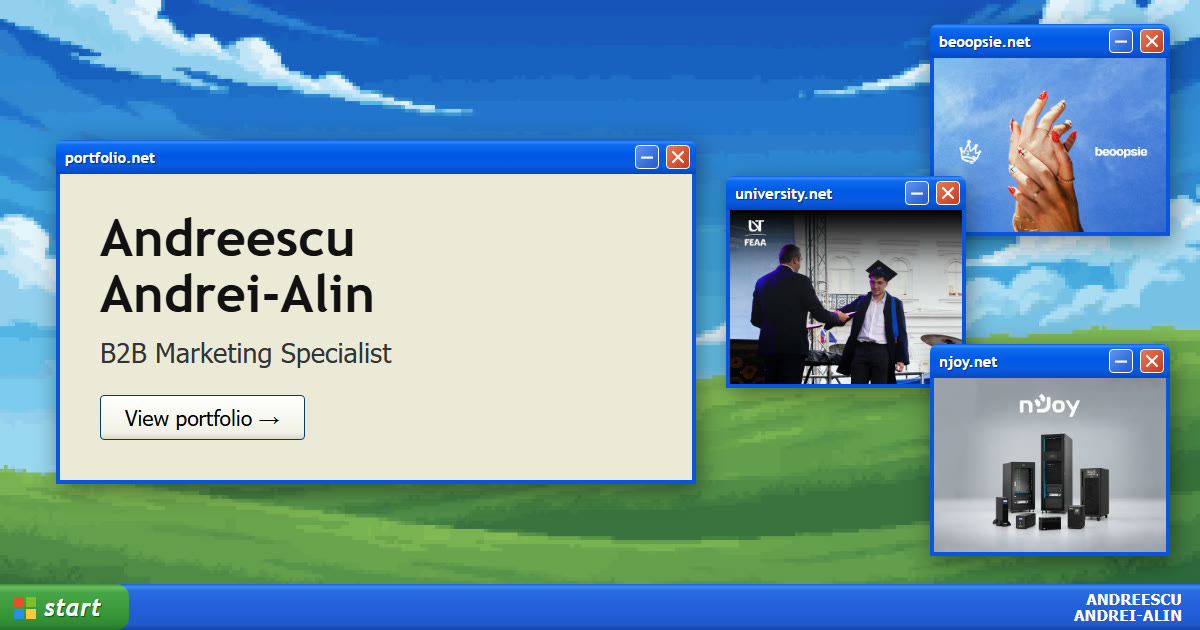
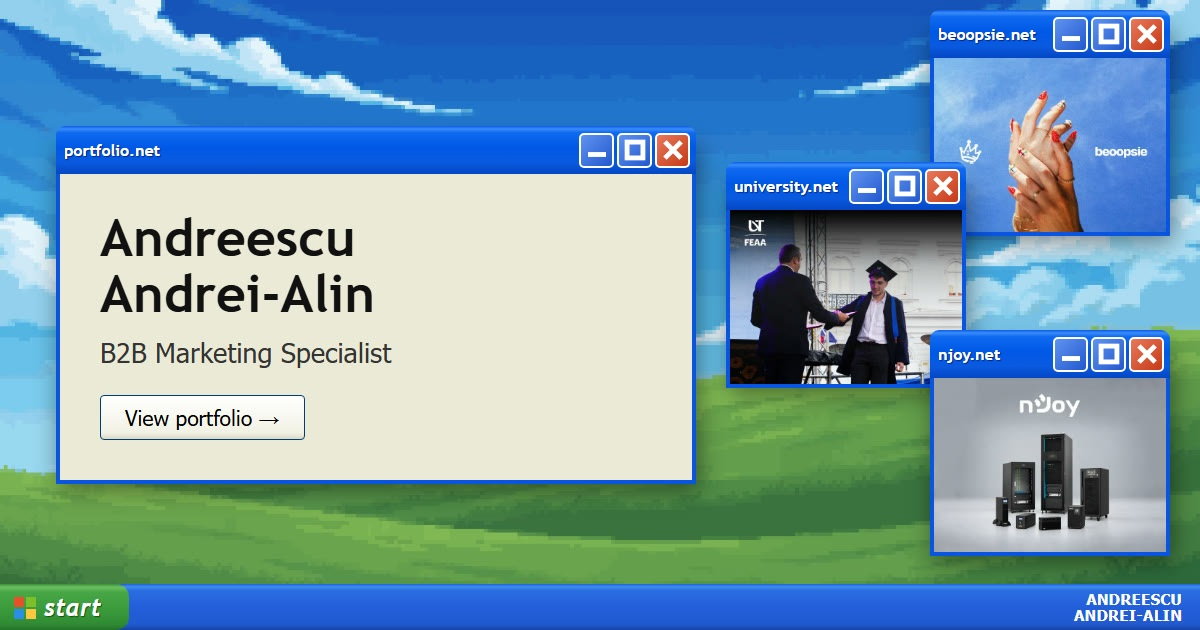
Make preview image buttons readable at thumbnail size
LinkedIn shrinks the image to about 360px, which blurred the window
button symbols away. Enlarge the buttons and thicken their symbols, add
the maximize button to match the site, and version the image URL so
link previews fetch the new file.

diff --git a/projects/university.html b/projects/university.html
@@ -10,7 +10,7 @@
   <meta property="og:title" content="UVT FEAA – Andrei Andreescu">
   <meta property="og:description" content="Andrei Andreescu's marketing studies at the Faculty of Economics and Business Administration, West University of Timișoara: Master's in Strategic Marketing and Digital Marketing, and Bachelor's in Marketing with a thesis on social media marketing and Gen Z purchase intentions.">
   <meta property="og:url" content="https://iescu.github.io/andreescu-andrei/projects/university.html">
-  <meta property="og:image" content="https://iescu.github.io/andreescu-andrei/assets/og-image.jpg">
+  <meta property="og:image" content="https://iescu.github.io/andreescu-andrei/assets/og-image.jpg?v=2">
   <meta property="og:image:width" content="1200">
   <meta property="og:image:height" content="630">
   <meta property="og:image:alt" content="Andreescu Andrei-Alin, B2B Marketing Specialist: a Windows XP style desktop with project windows">

diff --git a/projects/njoy.html b/projects/njoy.html
@@ -10,7 +10,7 @@
   <meta property="og:title" content="nJoy – Andrei Andreescu">
   <meta property="og:description" content="Andrei Andreescu’s work as B2B Marketing Specialist at nJoy, the power protection, solar energy and IT&amp;C brand of DAI-TECH S.A.: LinkedIn lead generation, partner relationships and programs, and the B2B website and newsletters.">
   <meta property="og:url" content="https://iescu.github.io/andreescu-andrei/projects/njoy.html">
-  <meta property="og:image" content="https://iescu.github.io/andreescu-andrei/assets/og-image.jpg">
+  <meta property="og:image" content="https://iescu.github.io/andreescu-andrei/assets/og-image.jpg?v=2">
   <meta property="og:image:width" content="1200">
   <meta property="og:image:height" content="630">
   <meta property="og:image:alt" content="Andreescu Andrei-Alin, B2B Marketing Specialist: a Windows XP style desktop with project windows">

diff --git a/projects/work-and-travel-2024.html b/projects/work-and-travel-2024.html
@@ -10,7 +10,7 @@
   <meta property="og:title" content="Work and Travel 2024 – Andrei Andreescu">
   <meta property="og:description" content="Andrei Andreescu’s Work and Travel summer in Minnesota, USA (2024): ride operator at Nickelodeon Universe and Entertainment Team Member at Crayola Experience, Mall of America.">
   <meta property="og:url" content="https://iescu.github.io/andreescu-andrei/projects/work-and-travel-2024.html">
-  <meta property="og:image" content="https://iescu.github.io/andreescu-andrei/assets/og-image.jpg">
+  <meta property="og:image" content="https://iescu.github.io/andreescu-andrei/assets/og-image.jpg?v=2">
   <meta property="og:image:width" content="1200">
   <meta property="og:image:height" content="630">
   <meta property="og:image:alt" content="Andreescu Andrei-Alin, B2B Marketing Specialist: a Windows XP style desktop with project windows">

diff --git a/projects/erasmus-malta.html b/projects/erasmus-malta.html
@@ -10,7 +10,7 @@
   <meta property="og:title" content="Erasmus+ Malta – Andrei Andreescu">
   <meta property="og:description" content="Andrei Andreescu’s Erasmus+ program in Malta (October 2026): the POWER Clean Energy Café on clean energy, security-related disinformation and science communication.">
   <meta property="og:url" content="https://iescu.github.io/andreescu-andrei/projects/erasmus-malta.html">
-  <meta property="og:image" content="https://iescu.github.io/andreescu-andrei/assets/og-image.jpg">
+  <meta property="og:image" content="https://iescu.github.io/andreescu-andrei/assets/og-image.jpg?v=2">
   <meta property="og:image:width" content="1200">
   <meta property="og:image:height" content="630">
   <meta property="og:image:alt" content="Andreescu Andrei-Alin, B2B Marketing Specialist: a Windows XP style desktop with project windows">

diff --git a/projects/beoopsie.html b/projects/beoopsie.html
@@ -10,7 +10,7 @@
   <meta property="og:title" content="beoopsie – Andrei Andreescu">
   <meta property="og:description" content="Andrei Andreescu’s work as Marketing Creative for beoopsie, a handmade 3D press-on nail label: social media content, product photography, newsletters and the Shopify store.">
   <meta property="og:url" content="https://iescu.github.io/andreescu-andrei/projects/beoopsie.html">
-  <meta property="og:image" content="https://iescu.github.io/andreescu-andrei/assets/og-image.jpg">
+  <meta property="og:image" content="https://iescu.github.io/andreescu-andrei/assets/og-image.jpg?v=2">
   <meta property="og:image:width" content="1200">
   <meta property="og:image:height" content="630">
   <meta property="og:image:alt" content="Andreescu Andrei-Alin, B2B Marketing Specialist: a Windows XP style desktop with project windows">

diff --git a/projects/bavi-feeling.html b/projects/bavi-feeling.html
@@ -10,7 +10,7 @@
   <meta property="og:title" content="Bavi Feeling – Andrei Andreescu">
   <meta property="og:description" content="Andrei Andreescu’s university practice at Bavi Feeling: product photoshoots, photo editing and the process behind a Shopify store.">
   <meta property="og:url" content="https://iescu.github.io/andreescu-andrei/projects/bavi-feeling.html">
-  <meta property="og:image" content="https://iescu.github.io/andreescu-andrei/assets/og-image.jpg">
+  <meta property="og:image" content="https://iescu.github.io/andreescu-andrei/assets/og-image.jpg?v=2">
   <meta property="og:image:width" content="1200">
   <meta property="og:image:height" content="630">
   <meta property="og:image:alt" content="Andreescu Andrei-Alin, B2B Marketing Specialist: a Windows XP style desktop with project windows">

diff --git a/index.html b/index.html
@@ -10,7 +10,7 @@
   <meta property="og:title" content="Andreescu Andrei-Alin | B2B Marketing Specialist">
   <meta property="og:description" content="Portfolio of Andreescu Andrei-Alin, B2B marketing specialist.">
   <meta property="og:url" content="https://iescu.github.io/andreescu-andrei/">
-  <meta property="og:image" content="https://iescu.github.io/andreescu-andrei/assets/og-image.jpg">
+  <meta property="og:image" content="https://iescu.github.io/andreescu-andrei/assets/og-image.jpg?v=2">
   <meta property="og:image:width" content="1200">
   <meta property="og:image:height" content="630">
   <meta property="og:image:alt" content="Andreescu Andrei-Alin, B2B Marketing Specialist: a Windows XP style desktop with project windows">
